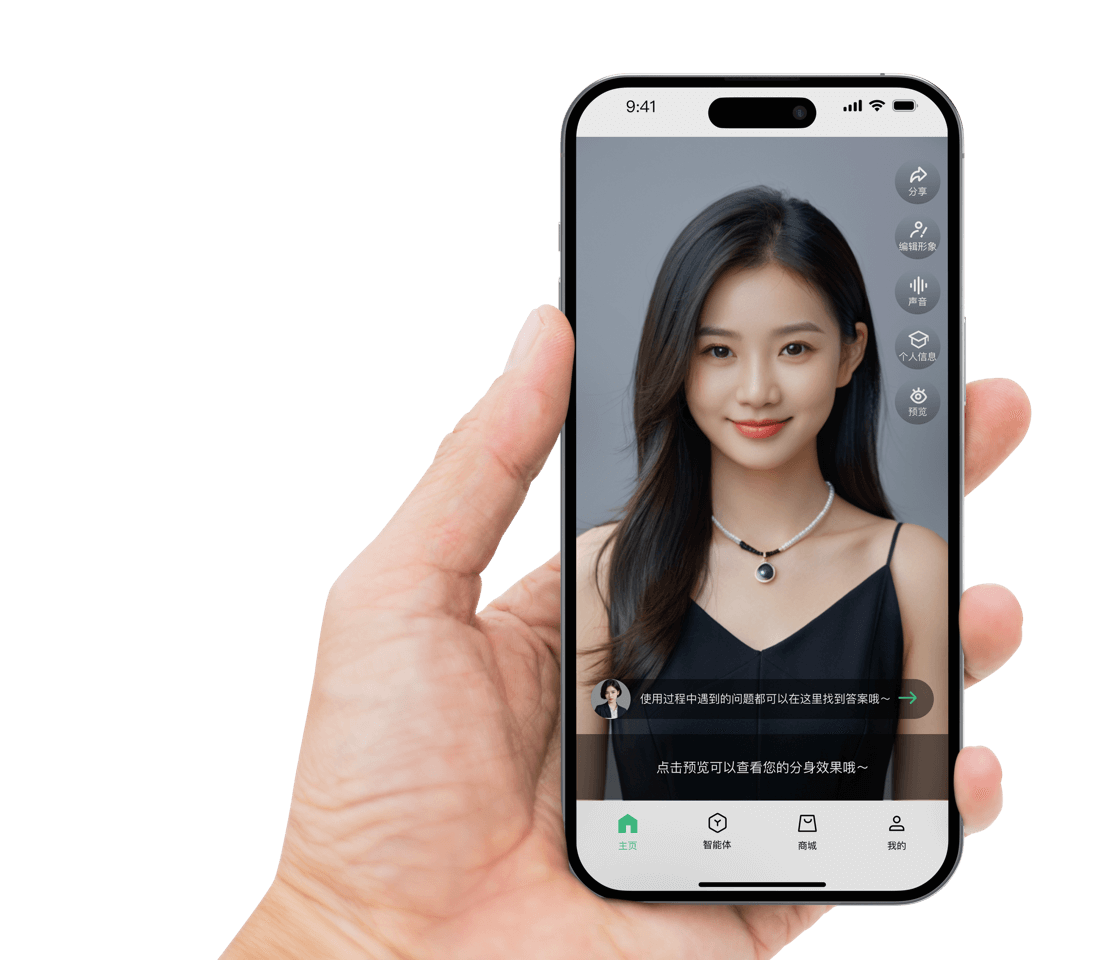
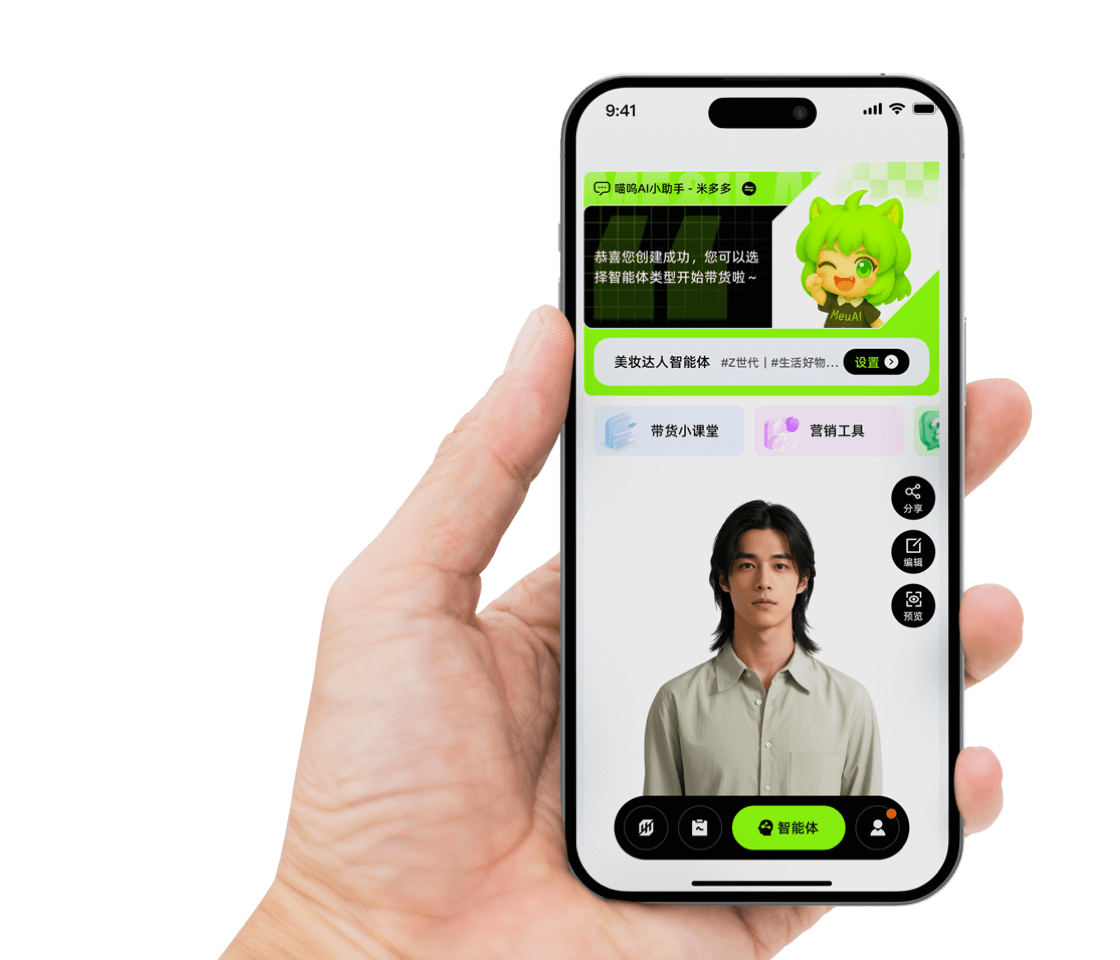
feat(下载页面 app 相关的修改): 修改App 二维码和对应的图片

Changed region(s): [[0.5, 0.0938, 0.875, 0.9688], [0.8125, 0.9062, 0.8438, 0.9375]]

diff --git a/src/pages/Products/App.vue b/src/pages/Products/App.vue
@@ -3,35 +3,27 @@
     <div class="container mx-auto px-20 lg:px-20 py-20 hidden lg:block">
       <div class="space-y-40">
         <!-- PC端：背景图容器（宽度自适应，高度480） -->
-        <section
-          v-fade-in-up
-          class="w-full h-[480px] relative rounded-2xl overflow-hidden"
-          :style="{
-            backgroundImage: `url(${img01})`,
-            backgroundSize: 'cover',
-            backgroundPosition: 'center',
-          }"
-        >
+        <section v-fade-in-up class="w-full h-[480px] relative rounded-2xl overflow-hidden" :style="{
+          backgroundImage: `url(${img01})`,
+          backgroundSize: 'cover',
+          backgroundPosition: 'center',
+        }">
           <!-- 内容：居中对齐，左图+右文案 -->
           <div class="absolute inset-0">
             <div class="h-full mx-auto flex items-center">
               <!-- 左侧：靠近底部的绝对定位图片 -->
-              <div class="relative w-[460px] h-full">
-                <img
-                  v-fade-in-up="{ delay: 500 }"
-                  :src="img02"
-                  alt="App 左侧展示图"
-                  class="hidden lg:block absolute bottom-0 left-0 w-[460px] h-auto object-cover rounded-xl"
-                />
+              <div class="relative w-[560px] h-full">
+                <img v-fade-in-up="{ delay: 500 }" :src="img02" alt="App 左侧展示图"
+                  class="hidden lg:block absolute bottom-0 left-0 w-[560px] h-auto object-cover rounded-xl" />
               </div>
 
               <!-- 右侧：文案区域（垂直居中，与左侧有间距） -->
-              <div v-stagger="{delay:500}" class="flex-1 flex flex-col justify-center ml-10 mr-20 space-y-5">
+              <div v-stagger="{ delay: 500 }" class="flex-1 flex flex-col justify-center ml-10 mr-20 space-y-5">
                 <!-- 三行文案 -->
                 <h2 class="text-3xl font-wendao text-white drop-shadow-md">喵呜App</h2>
                 <p class="text-xl text-white/90 mt-3 drop-shadow-md">AI 智能体，就用喵呜AI。</p>
                 <p class="text-base text-white/80 mt-2 drop-shadow-md">
-                 打造个人AI智能体，用AI技术创造销售新篇章！让你对用户的服务随时都在，让你成为品牌AI智能体；喵呜AI智能体，您的高效销售方式只需一张照片，5分钟即可生成您的专属AI智能体，有货没货都能赚，省时省力，一键解锁私域财富密码。
+                  打造个人AI智能体，用AI技术创造销售新篇章！让你对用户的服务随时都在，让你成为品牌AI智能体；喵呜AI智能体，您的高效销售方式只需一张照片，5分钟即可生成您的专属AI智能体，有货没货都能赚，省时省力，一键解锁私域财富密码。
                 </p>
 
                 <!-- 图标横向排列：icon01 - icon05 -->
@@ -39,14 +31,6 @@
                   <div class="flex flex-col items-center">
                     <img :src="icon01" alt="功能图标1" class="w-8 h-8" />
                     <span class="mt-2 text-[#FFFFFFCC] text-xs drop-shadow-md">智能体</span>
-                  </div>
-                  <div class="flex flex-col items-center">
-                    <img :src="icon02" alt="功能图标2" class="w-8 h-8" />
-                    <span class="mt-2 text-[#FFFFFFCC] text-xs drop-shadow-md">知识库</span>
-                  </div>
-                  <div class="flex flex-col items-center">
-                    <img :src="icon03" alt="功能图标3" class="w-8 h-8" />
-                    <span class="mt-2 text-[#FFFFFFCC] text-xs drop-shadow-md">商城</span>
                   </div>
                   <div class="flex flex-col items-center">
                     <img :src="icon04" alt="功能图标4" class="w-8 h-8" />
@@ -64,25 +48,21 @@
         <!-- 下载app展示 -->
         <section class="w-full relative">
           <div v-fade-in-up="{ delay: 500 }" class="space-y-5 text-center color-black">
-            <h3 class="font-wendao text-[56px] text-black">下载app展示</h3>
+            <h3 class="font-wendao text-[56px] text-black">下载App展示</h3>
             <p class="text-xl text-black">
               5分钟快速生成另一个你,聊天对话客服解答产品推荐，统统帮你搞定;<br />
               用AI连接世界，人人都可拥有自己的AI智能体,AI助手24小时智能对话交流，帮你介绍产品，解答客户疑问
             </p>
           </div>
           <!-- 下载地址展示区域 -->
-          <div v-stagger="{delay:1000}" class="relative w-full mt-10">
+          <div v-stagger="{ delay: 1000 }" class="relative w-full mt-10">
             <div class="flex justify-center gap-8 mx-auto">
               <!-- 卡片：微信扫码下载 -->
               <div
-                class="bg-white/95 rounded-2xl border border-black px-6 text-center w-full max-w-[460px] min-w-[300px] py-[77px]"
-              >
+                class="bg-white/95 rounded-2xl border border-black px-6 text-center w-full max-w-[460px] min-w-[300px] py-[77px]">
                 <div class="flex justify-center">
-                  <img
-                    :src="img03"
-                    alt="微信扫码下载二维码"
-                    class="w-[280px] max-w-[280px] min-w-[100px] h-[280px] max-h-[280px] min-h-[100px] rounded-lg object-cover"
-                  />
+                  <img :src="img03" alt="微信扫码下载二维码"
+                    class="w-[280px] max-w-[280px] min-w-[100px] h-[280px] max-h-[280px] min-h-[100px] rounded-lg object-cover" />
                 </div>
                 <h4 class="text-lg font-semibold text-black mt-10 mb-2 text-4xl text-black">
                   客户端下载
@@ -92,63 +72,38 @@
 
               <!-- 卡片：iOS 下载方式 -->
               <div
-                class="bg-white/95 rounded-2xl border border-black px-6 text-center w-full max-w-[460px] min-w-[300px] py-[77px] flex flex-col justify-center"
-              >
+                class="bg-white/95 rounded-2xl border border-black px-6 text-center w-full max-w-[460px] min-w-[300px] py-[77px] flex flex-col justify-center">
                 <div class="flex justify-center">
-                  <img
-                    :src="img04"
-                    alt="iOS下载二维码"
-                    class="w-[150px] max-w-[150px] min-w-[100px] h-[150px] max-h-[150px] min-h-[100px] rounded-lg object-cover"
-                  />
+                  <img :src="img04" alt="iOS下载二维码"
+                    class="w-[150px] max-w-[150px] min-w-[100px] h-[150px] max-h-[150px] min-h-[100px] rounded-lg object-cover" />
                 </div>
                 <h4 class="text-lg font-semibold text-black mt-10 mb-2 text-4xl text-black">
                   iOS下载
                 </h4>
-                <a
-                  href="https://apps.apple.com/cn/app/%E5%96%B5%E5%91%9Cai/id6462773304"
-                  target="_blank"
-                  rel="noopener noreferrer"
-                  aria-label="前往 App Store 下载喵呜AI"
-                  class="hover-underline-group text-xl text-black mx-auto"
-                  title="前往 App Store 下载"
-                >
+                <a href="https://apps.apple.com/cn/app/%E5%96%B5%E5%91%9Cai/id6462773304" target="_blank"
+                  rel="noopener noreferrer" aria-label="前往 App Store 下载喵呜AI"
+                  class="hover-underline-group text-xl text-black mx-auto" title="前往 App Store 下载">
                   <span class="hover-underline">前往 App Store 下载 >>>></span>
                 </a>
               </div>
 
               <!-- 卡片：安卓 下载方式 -->
               <div
-                class="bg-white/95 rounded-2xl border border-black px-6 text-center w-full max-w-[460px] min-w-[300px] py-[77px] flex flex-col justify-center"
-              >
+                class="bg-white/95 rounded-2xl border border-black px-6 text-center w-full max-w-[460px] min-w-[300px] py-[77px] flex flex-col justify-center">
                 <div class="flex justify-center">
-                  <img
-                    :src="img05"
-                    alt="安卓下载二维码"
-                    class="w-[120px] h-[150px] rounded-lg object-cover"
-                  />
+                  <img :src="img05" alt="安卓下载二维码" class="w-[120px] h-[150px] rounded-lg object-cover" />
                 </div>
                 <h4 class="text-lg font-semibold text-black mt-10 mb-2 text-4xl text-black">
                   安卓下载
                 </h4>
                 <div class="mt-2 flex flex-col items-center space-y-2">
-                  <a
-                    href="https://app.cdo.oppomobile.com/home/detail?app_id=31451501"
-                    target="_blank"
-                    rel="noopener noreferrer"
-                    aria-label="前往 OPPO 应用市场下载喵呜"
-                    class="hover-underline-group text-xl text-black"
-                    title="OPPO 应用市场下载"
-                  >
+                  <a href="https://app.cdo.oppomobile.com/home/detail?app_id=31451501" target="_blank"
+                    rel="noopener noreferrer" aria-label="前往 OPPO 应用市场下载喵呜"
+                    class="hover-underline-group text-xl text-black" title="OPPO 应用市场下载">
                     <span class="hover-underline">OPPO应用市场下载 >>>></span>
                   </a>
-                  <a
-                    href="https://wap.pp.cn/app_BycxLcx5eUze/"
-                    target="_blank"
-                    rel="noopener noreferrer"
-                    aria-label="前往 PP 助手下载喵呜"
-                    class="hover-underline-group text-xl text-black"
-                    title="PP 助手下载"
-                  >
+                  <a href="https://wap.pp.cn/app_BycxLcx5eUze/" target="_blank" rel="noopener noreferrer"
+                    aria-label="前往 PP 助手下载喵呜" class="hover-underline-group text-xl text-black" title="PP 助手下载">
                     <span class="hover-underline">PP助手下载 >>>></span>
                   </a>
                 </div>
@@ -170,21 +125,13 @@
         <h2 class="text-2xl font-wendao text-black">喵呜App</h2>
         <p class="text-base text-gray-700">AI 智能体，就用喵呜AI。</p>
         <p class="text-sm text-gray-600">
-         打造个人AI智能体，用AI技术创造销售新篇章！让你对用户的服务随时都在，让你成为品牌AI智能体；喵呜AI智能体，您的高效销售方式只需一张照片，5分钟即可生成您的专属AI智能体，有货没货都能赚，省时省力，一键解锁私域财富密码。
+          打造个人AI智能体，用AI技术创造销售新篇章！让你对用户的服务随时都在，让你成为品牌AI智能体；喵呜AI智能体，您的高效销售方式只需一张照片，5分钟即可生成您的专属AI智能体，有货没货都能赚，省时省力，一键解锁私域财富密码。
         </p>
         <!-- 图标横向排列：居中，适配小屏尺寸 -->
         <div class="mt-4 flex justify-center gap-6 bg-black/95 p-4 rounded-2xl">
           <div class="flex flex-col items-center">
             <img :src="icon01" alt="功能图标1" class="w-6 h-6 text-white" />
             <span class="mt-2 text-gray-700 text-xs text-white">智能体</span>
-          </div>
-          <div class="flex flex-col items-center">
-            <img :src="icon02" alt="功能图标2" class="w-6 h-6 text-white" />
-            <span class="mt-2 text-gray-700 text-xs text-white">知识库</span>   
-          </div>
-          <div class="flex flex-col items-center">
-            <img :src="icon03" alt="功能图标3" class="w-6 h-6 text-white" />
-            <span class="mt-2 text-gray-700 text-xs text-white">商城</span>
           </div>
           <div class="flex flex-col items-center">
             <img :src="icon04" alt="功能图标4" class="w-6 h-6 text-white" />
@@ -200,7 +147,7 @@
       <!-- 下载app展示（移动端）：文本居中，卡片竖排 -->
       <div v-fade-in-up="{ delay: 500 }" class="mt-10">
         <div class="text-center space-y-3">
-          <h3 class="text-2xl font-wendao text-black">下载app展示</h3>
+          <h3 class="text-2xl font-wendao text-black">下载App展示</h3>
           <p class="text-sm text-gray-700 leading-8">
             5分钟快速生成另一个你，<br></br>聊天对话客服解答产品推荐，统统帮你搞定；<br />
             用AI连接世界，人人都可拥有自己的AI智能体，<br></br>AI助手24小时智能对话交流，<br></br>帮你介绍产品，解答客户疑问。
@@ -210,68 +157,44 @@
         <div class="mt-6 space-y-6">
           <!-- 微信扫码下载 -->
           <div
-            class="bg-white/95 rounded-2xl border border-black px-4 py-6 w-full sm:max-w-[460px] mx-auto text-center"
-          >
+            class="bg-white/95 rounded-2xl border border-black px-4 py-6 w-full sm:max-w-[460px] mx-auto text-center">
             <div class="flex justify-center">
-              <img
-                :src="img03"
-                alt="微信扫码下载二维码"
-                class="w-40 h-40 rounded-lg object-cover"
-              />
+              <img :src="img03" alt="微信扫码下载二维码" class="w-40 h-40 rounded-lg object-cover" />
             </div>
             <h4 class="text-lg font-semibold text-black mt-6 mb-2">客户端下载</h4>
             <p class="text-sm text-gray-700">微信扫码立即下载手机App</p>
           </div>
 
           <!-- iOS 下载方式 -->
-          <div
-            v-show="platform === 'unknown' || platform === 'ios'"
-            class="bg-white/95 rounded-2xl border border-black px-4 py-6 w-full sm:max-w-[460px] mx-auto text-center"
-          >
+          <div v-show="platform === 'unknown' || platform === 'ios'"
+            class="bg-white/95 rounded-2xl border border-black px-4 py-6 w-full sm:max-w-[460px] mx-auto text-center">
             <div class="flex justify-center">
               <img :src="img04" alt="iOS 下载图标" class="w-20 h-20 rounded-lg object-cover" />
             </div>
             <h4 class="text-lg font-semibold text-black mt-6 mb-2">iOS 下载</h4>
-            <a
-              href="https://apps.apple.com/cn/app/%E5%96%B5%E5%91%9Cai/id6462773304"
-              target="_blank"
-              rel="noopener noreferrer"
-              aria-label="前往 App Store 下载喵呜AI"
+            <a href="https://apps.apple.com/cn/app/%E5%96%B5%E5%91%9Cai/id6462773304" target="_blank"
+              rel="noopener noreferrer" aria-label="前往 App Store 下载喵呜AI"
               class="text-sm text-miaowu-green underline underline-offset-4 hover:text-miaowu-green/80"
-              title="前往 App Store 下载"
-            >
+              title="前往 App Store 下载">
               前往 App Store 下载 →
             </a>
           </div>
 
           <!-- 安卓 下载方式 -->
-          <div
-            v-show="platform === 'unknown' || platform === 'android'"
-            class="bg-white/95 rounded-2xl border border-black px-4 py-6 w-full sm:max-w-[460px] mx-auto text-center"
-          >
+          <div v-show="platform === 'unknown' || platform === 'android'"
+            class="bg-white/95 rounded-2xl border border-black px-4 py-6 w-full sm:max-w-[460px] mx-auto text-center">
             <div class="flex justify-center">
               <img :src="img05" alt="安卓 下载图标" class="w-20 h-30 rounded-lg object-cover" />
             </div>
             <h4 class="text-lg font-semibold text-black mt-6 mb-2">安卓下载</h4>
             <div class="flex flex-col items-center space-y-2">
-              <a
-                href="https://app.cdo.oppomobile.com/home/detail?app_id=31451501"
-                target="_blank"
-                rel="noopener noreferrer"
-                aria-label="前往 OPPO 应用市场下载喵呜"
-                class="text-sm text-black underline underline-offset-4"
-                title="OPPO 应用市场下载"
-              >
+              <a href="https://app.cdo.oppomobile.com/home/detail?app_id=31451501" target="_blank"
+                rel="noopener noreferrer" aria-label="前往 OPPO 应用市场下载喵呜"
+                class="text-sm text-black underline underline-offset-4" title="OPPO 应用市场下载">
                 OPPO应用市场下载 >>>>
               </a>
-              <a
-                href="https://wap.pp.cn/app_BycxLcx5eUze/"
-                target="_blank"
-                rel="noopener noreferrer"
-                aria-label="前往 PP 助手下载喵呜"
-                class="text-sm text-black underline underline-offset-4 "
-                title="PP 助手下载"
-              >
+              <a href="https://wap.pp.cn/app_BycxLcx5eUze/" target="_blank" rel="noopener noreferrer"
+                aria-label="前往 PP 助手下载喵呜" class="text-sm text-black underline underline-offset-4 " title="PP 助手下载">
                 PP助手下载 >>>>
               </a>
             </div>
@@ -290,8 +213,6 @@ import img03 from '@/assets/img/product-app-03.png'
 import img04 from '@/assets/img/product-app-04.png'
 import img05 from '@/assets/img/product-app-05.png'
 import icon01 from '@/assets/img/product-app-icon-01.png'
-import icon02 from '@/assets/img/product-app-icon-02.png'
-import icon03 from '@/assets/img/product-app-icon-03.png'
 import icon04 from '@/assets/img/product-app-icon-04.png'
 import icon05 from '@/assets/img/product-app-icon-05.png'
 import { onMounted, ref } from 'vue'
